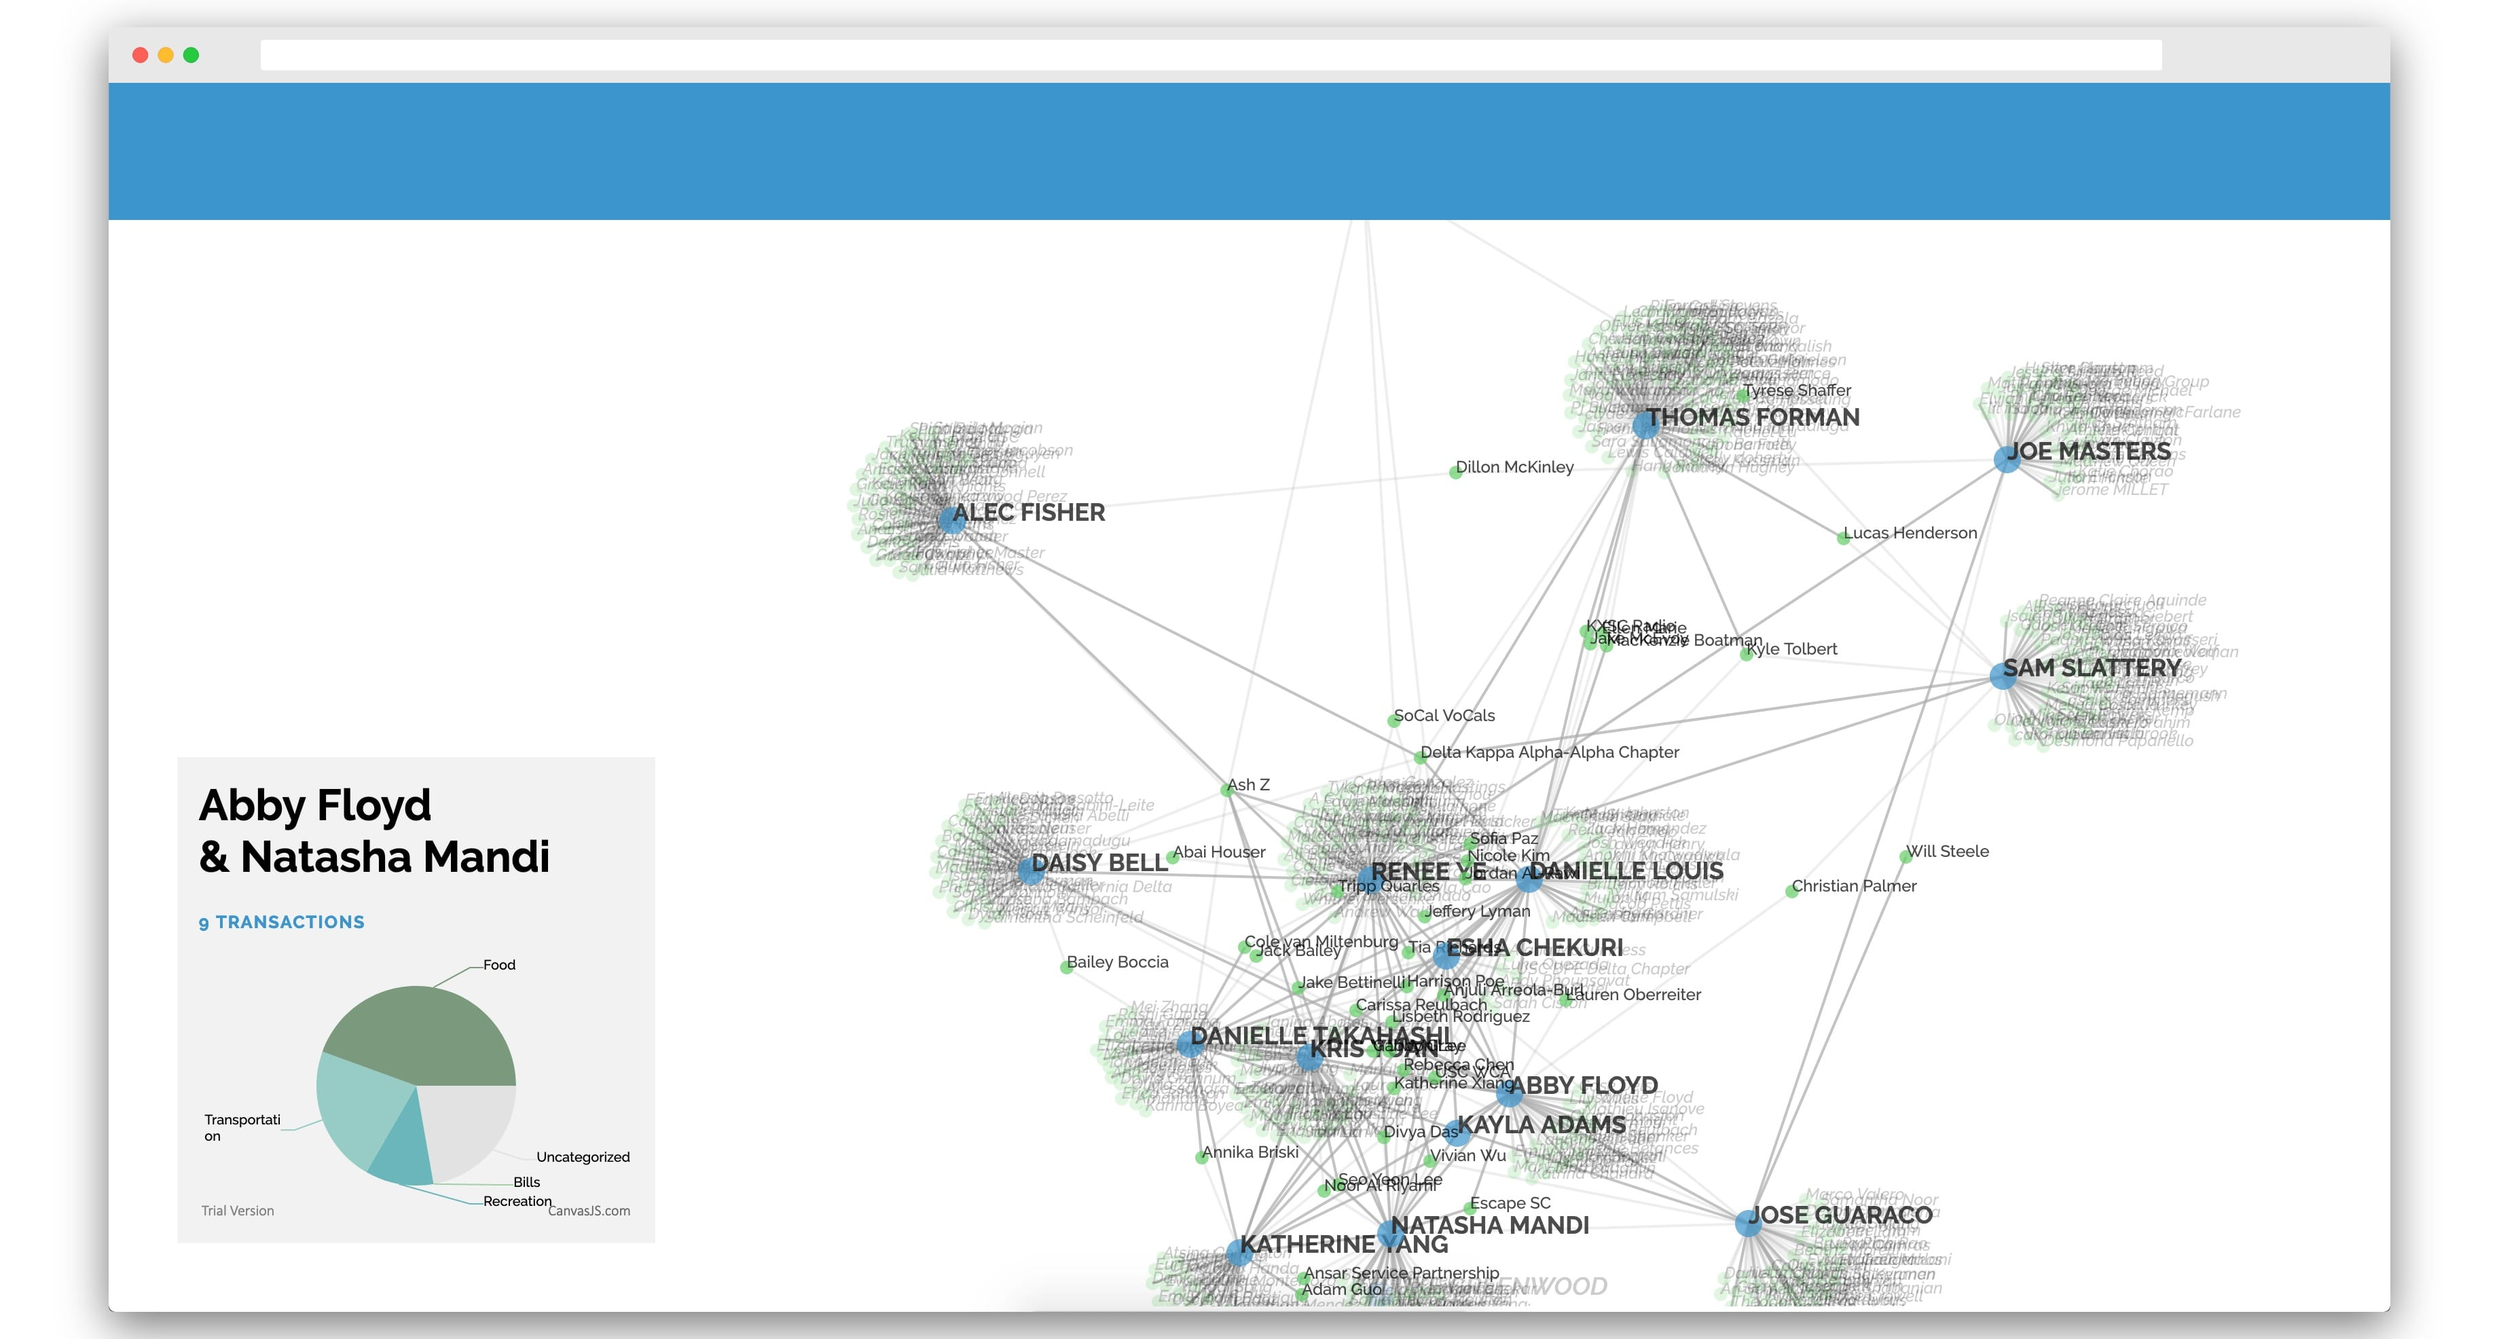
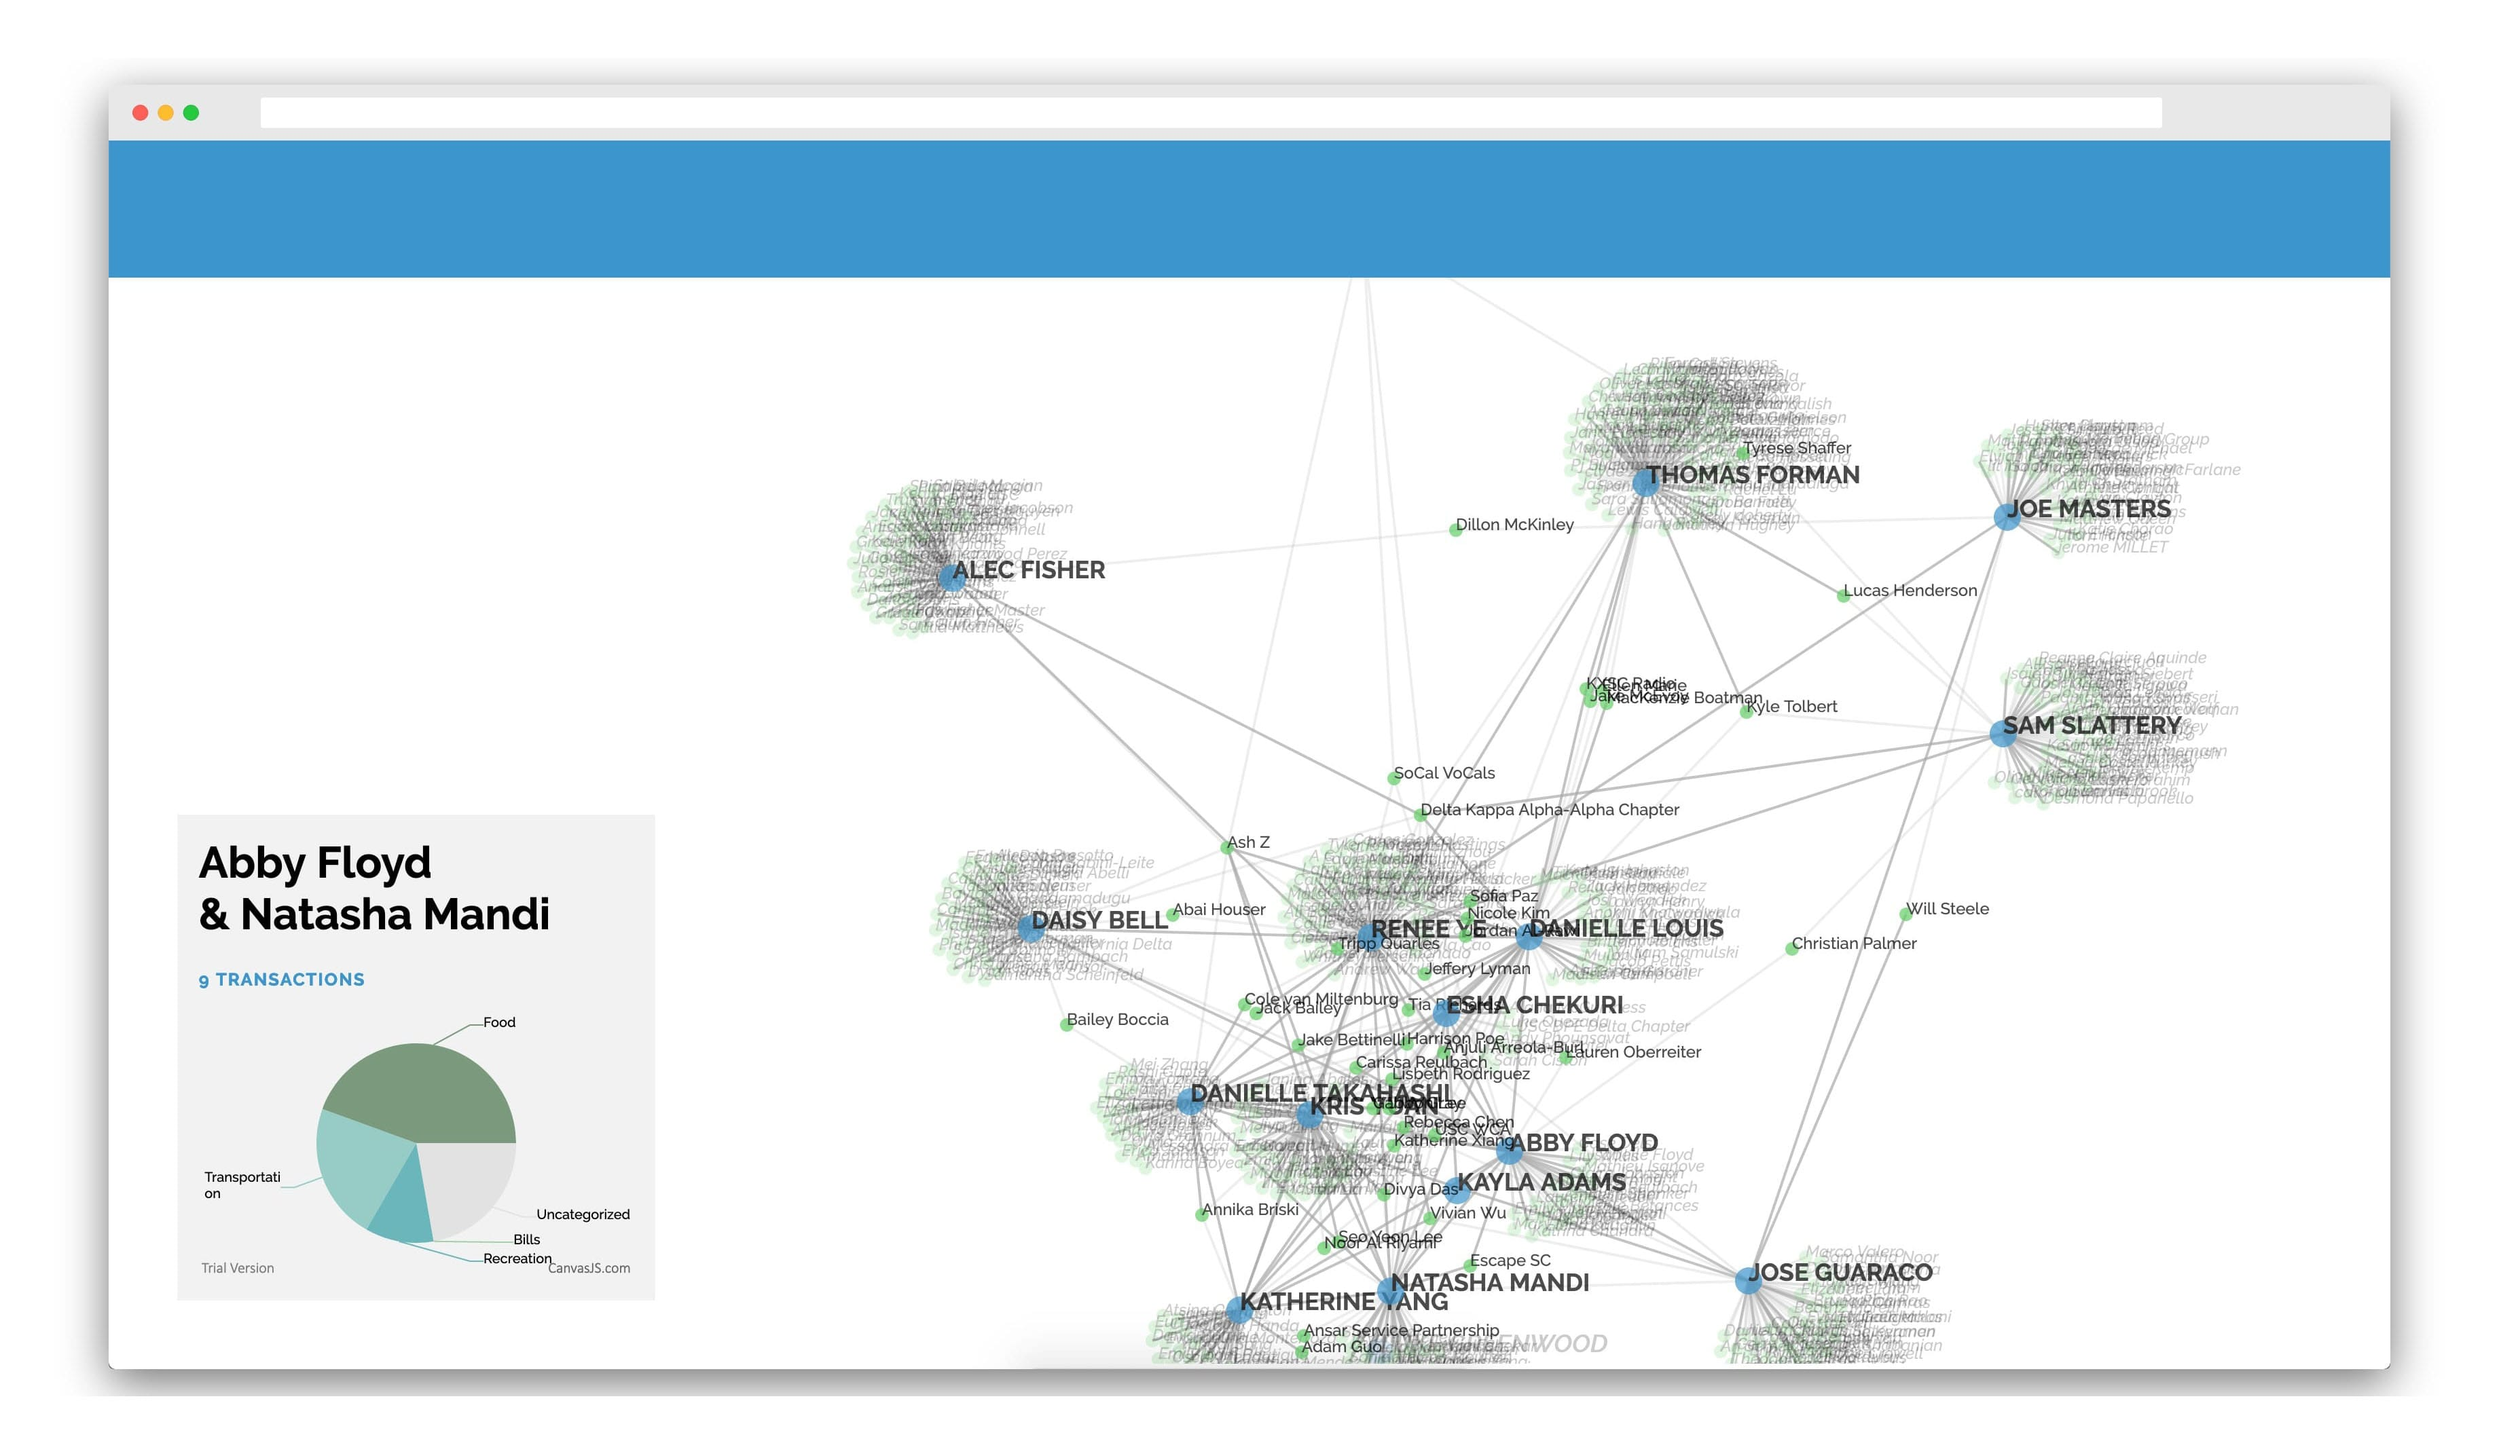
style: square images for standardisation

diff --git a/work/carbon-price-tag/index.md b/work/carbon-price-tag/index.md
@@ -5,6 +5,7 @@ description: Design and marketing for Best Sustainability Project at HackSC 2020
 year: 2020
 tags: [code, marketing, ui/ux]
 image: /assets/img/carbon-price-tag/popup.png
+image-square: /assets/img/carbon-price-tag/popup-1000.jpg
 image-alt: Chrome extension popup. The username and address are in the top left, and there is a large semicircle gauge in the middle set to the current carbon spending, with a marking for the budget to the right of the gauge. The logo is at the bottom of the popup.
 platforms: [["https://devpost.com/software/carbon-price-tag", "Devpost"], ["https://www.canva.com/design/DADym2x0oA8/view", "Canva"], ["https://github.com/daniel-d-truong/carbon-price-tag", "GitHub"]]
 ---

diff --git a/work/hyperlinked-narratives/index.md b/work/hyperlinked-narratives/index.md
@@ -5,6 +5,7 @@ description: A Wikipedia-based narrative tool.
 year: 2019
 tags: [code, language]
 image: /assets/img/hyperlinked-narratives/4-filled.png
+image-square: /assets/img/hyperlinked-narratives/4-filled-1000.png
 image-alt: Screenshot of page where the user has filled in text fields between text nodes, reading, 'Glipa maruyamai' is a type of 'Beetle' that is used in 'Entomological warfare' the most famous examples of which was 'Operation Big Itch' at 'Dugway Proving Ground' leading to the horrifying 'Dugway sheep incident'.
 platforms: [["https://hyperlinked-narratives.herokuapp.com", "Website"], ["https://github.com/whykatherine/hyperlinked-narratives", "GitHub"]]
 ---

diff --git a/work/letsgetgranular/index.md b/work/letsgetgranular/index.md
@@ -5,6 +5,7 @@ description: An interactive visualisation of Venmo networks.
 year: 2020
 tags: [code, data]
 image: /assets/img/letsgetgranular/letsgetgranular.jpg
+image-square: /assets/img/letsgetgranular/letsgetgranular-1000.jpg
 image-alt: A web of nodes and links between names in a network, with a graph on the side showing a breakdown of the transactions between two people.
 platforms: [["https://letsgetgranular.surge.sh", "Website"], ["https://medium.com/@bookwormgirl910/lets-get-granular-a-venmo-intervention-a57872806ae6", "Write-up"], ["https://github.com/whykatherine/letsgetgranular", "GitHub"]]
 ---

diff --git a/work/agloballanguage/index.md b/work/agloballanguage/index.md
@@ -5,6 +5,7 @@ description: An interactive visualisation tool exploring the etymological histor
 year: 2019
 tags: [code, language, ui/ux]
 image: /assets/img/agloballanguage/agloballanguage.jpg
+image-square: /assets/img/agloballanguage/agloballanguage-1000.jpg
 image-alt: Screenshot of the result of the search term 'ginger' with a globe visualising the geographical origins of the word and a timeline visualising the historical origin of the word.
 platforms: [["https://agloballanguage.herokuapp.com", "Website"], ["https://github.com/whykatherine/agloballanguage", "GitHub"]]
 ---

diff --git a/work/fine-art-asia/index.md b/work/fine-art-asia/index.md
@@ -5,6 +5,7 @@ description: Camera-based interactive brand installation for Fine Art Asia with 
 year: 2019
 tags: [branding, code]
 image: /assets/img/faainteractivebrand/faainteractivebrand.jpg
+image-square: /assets/img/faainteractivebrand/faainteractivebrand-1000.jpg
 image-alt: Simulated blank ink swirling through the words 'Fine Art Asia', creating subtle layers to the typography
 platforms: [["https://github.com/whykatherine/FAAInteractiveBrand/", "GitHub"], ["https://vimeo.com/364002596", "Vimeo"]]
 ---

diff --git a/work/sCan/index.md b/work/sCan/index.md
@@ -5,6 +5,7 @@ description: Design and marketing for Top Overall project at BitwiseHacks 2016.
 year: 2016
 tags: [code, marketing, ui/ux]
 image: /assets/img/sCan/sCan.jpg
+image-square: /assets/img/sCan/sCan-1000.jpg
 image-alt: Presentation cover of the sCan logo, subtitled 'BitwiseHacks 2016'
 platforms: [["https://devpost.com/software/sCan", "Devpost"], ["https://speakerdeck.com/player/716f25367ddb4460a04a7f84a831f9fc", "Speaker Deck"], ["https://github.com/BitwiseHacks-CIS-2016", "GitHub"]]
 ---

diff --git a/work/bluebirds/index.md b/work/bluebirds/index.md
@@ -5,6 +5,7 @@ description: A Twitter interface/visualisation based on Daniel Shiffman's flocki
 year: 2019
 tags: [code, data]
 image: /assets/img/bluebirds/bluebirds.jpg
+image-square: /assets/img/bluebirds/bluebirds-1000.jpg
 image-alt: Twitter birds flocking across the screen, with one Tweet highlighted and showing text
 platforms: [["https://github.com/whykatherine/Bluebirds", "GitHub"]]
 ---

diff --git a/work/human-rights-day/index.md b/work/human-rights-day/index.md
@@ -5,6 +5,7 @@ description: Informational graphics for International Human Rights Day at CIS.
 year: 2016
 tags: [data, graphic]
 image: /assets/img/human-rights-day/poster-1.png
+image-square: /assets/img/human-rights-day/poster-1-1000.png
 image-alt: Poster of an donut chart showing proportions of responses about each issue, with racial equality being most significant
 ---
 

diff --git a/work/lgbtabc/index.md b/work/lgbtabc/index.md
@@ -5,6 +5,7 @@ description: A digital terminology board of LGBT+ terms.
 year: 2017
 tags: [code, language]
 image: /assets/img/lgbtabc/lgbtabc.jpg
+image-square: /assets/img/lgbtabc/lgbtabc-1000.jpg
 image-alt: A grid of color-coded cards displaying LGBT+ terms.
 platforms: [["https://lgbtabc.surge.sh", "Website"], ["https://github.com/whykatherine/lgbtabc", "GitHub"]]
 ---

diff --git a/work/scribbles/index.md b/work/scribbles/index.md
@@ -5,6 +5,7 @@ description: Layout design for the CIS biannual arts magazine.
 year: 2017
 tags: [editorial, print]
 image: /assets/img/scribbles/mockup.jpg
+image-square: /assets/img/scribbles/mockup-1000.jpg
 image-alt: Mockup of magazine spread, with 'A Letter from the Ed Board' on the left and the table of contents on the right
 ---
 

diff --git a/work/index.md b/work/index.md
@@ -23,7 +23,7 @@ layout: directory
                 {% endfor %}
               </div>
             </figcaption>
-            <img src="{{ project.image }}" alt="{{ project.image-alt }}">
+            <img src="{{ project.image-square }}" alt="{{ project.image-alt }}">
           </figure>
         </a>
       {% endfor %}

diff --git a/work/havisham/index.md b/work/havisham/index.md
@@ -5,6 +5,7 @@ description: Poetry, lettering, and design for a poster inspired by <i>Great Exp
 year: 2016
 tags: [graphic, writing]
 image: /assets/img/havisham/mockup.jpg
+image-square: /assets/img/havisham/mockup-1000.jpg
 image-alt: A mockup of a poster of a silhouette of a woman surrounded by spindly lettering
 ---
 
